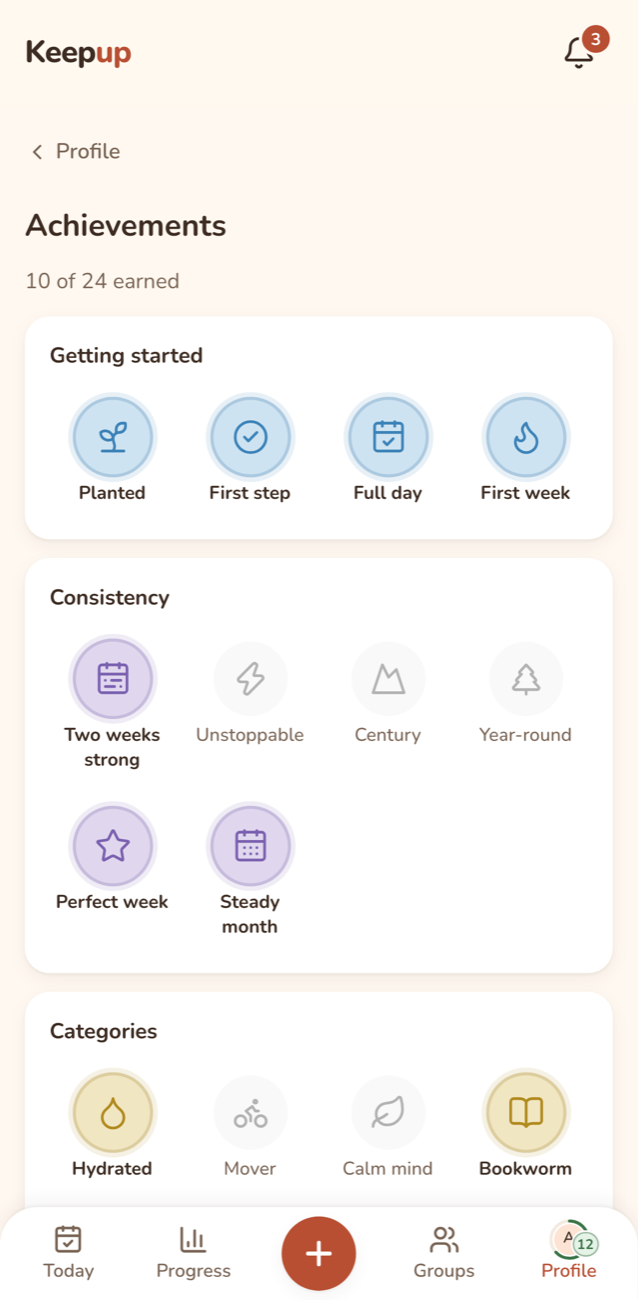
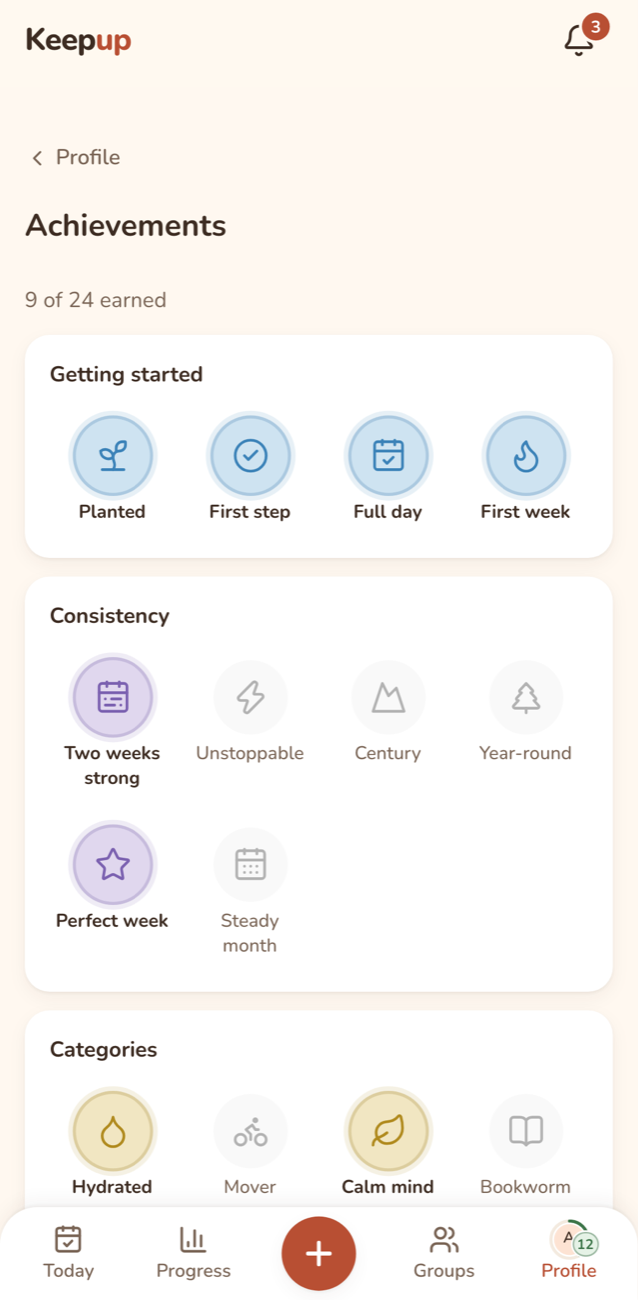
docs(readme): accurate for v1.8.0, new screenshots, easier to scan (#273)
The README now matches v1.8.0, with new screenshots.

**Screenshots** (12, regenerated with `npm run readme:screenshots`; each
one checked by eye):
- New: the landing page.
- Redone after the design pass:
  - Today, with the summary line and the check-in toast with Undo;
  - Progress, Calendar, Recaps (list rows);
  - Habit page (sections), New habit;
  - Kid view (header row), Achievements, Celebration;
  - Notifications (Saved ✓), Offline.
- Spec fixed for isolated names, the toast and Saved ✓.

**Text**
- **Order:** visitor first (intro, Try it, What it does, Your data,
Install), then engineering.
- **Lead-ins and alt texts:** short bold lead-ins, and alt texts that
describe the new UI.
- **Facts checked against the code:**
  - demo button and note;
  - what's off in the demo;
  - test counts from `scripts/count-tests.mjs` (badge 3904);
- PR checks take about 2.5 min, pgTAP runs on merge, full e2e runs after
merge;
  - roadmap up to v1.8.0;
  - 'Next' lists what's merged but not released (sitemap, 404, icons).
- **New mentions:** terms, push delivery log, three languages, kid
boy/girl, settings that save on change.
- **Shorter:** the engineering highlights.

All 50 README links and image paths exist. Lint and types pass.

🤖 Generated with [Claude Code](https://claude.com/claude-code)

---------

diff --git a/scripts/readme/screenshots.spec.ts b/scripts/readme/screenshots.spec.ts
@@ -7,6 +7,8 @@ import { createHabit } from "../../e2e/helpers/habits";
 // README screenshots (docs/screenshots). Local stack only: seeds a month of history straight into the
 // database (triggers off), like e2e/helpers do. Run: npm run readme:screenshots
 const OUT = "docs/screenshots";
+// Names in accessible labels come wrapped in Unicode isolates (FSI … PDI), as in e2e/kids.spec.ts.
+const iso = (s: string) => `\u2068${s}\u2069`;
 
 function seedHistory(email: string): void {
   if (!/^[\w.+-]+@[\w.-]+$/.test(email)) throw new Error(`Not an email: ${email}`);
@@ -47,6 +49,12 @@ select private.backfill_badges();`;
 test("README screenshots", async ({ page, context }) => {
   test.setTimeout(120_000);
   const email = uniqueEmail("readme");
+
+  // The landing page, signed out: the pitch and one call to action.
+  await page.goto("/");
+  await expect(page.getByRole("link", { name: "Start your first streak" })).toBeVisible();
+  await page.screenshot({ path: `${OUT}/landing.png` });
+
   await signUp(page, email);
   await completeOnboarding(page, { name: "Ana" });
   for (const template of ["Drink water", "Walk 10,000 steps", "Meditate", "Read 20 min", "Work out"]) {
@@ -73,15 +81,17 @@ test("README screenshots", async ({ page, context }) => {
     await expect(dialog).toBeHidden();
   }
 
-  // Today, half done.
+  // Today, half done, right after a check-in: the summary line and the toast with Undo.
   await page.goto("/today");
-  for (let i = 0; i < 3; i++) await page.getByRole("button", { name: "Check in: Drink water" }).click();
-  await page.getByRole("button", { name: "Check in: Walk 10,000 steps" }).click();
-  await expect(page.getByRole("button", { name: "Done: Walk 10,000 steps" })).toBeVisible();
-  await page.getByRole("button", { name: "Check in: Meditate" }).click();
-  await expect(page.getByRole("button", { name: "Done: Meditate" })).toBeVisible();
-  await page.getByRole("button", { name: /^Check in for Mary: / }).first().click();
+  await page.getByRole("button", { name: /^Check in for \u2068Mary\u2069: / }).first().click();
+  for (let i = 0; i < 3; i++) await page.getByRole("button", { name: `Check in: ${iso("Drink water")}` }).click();
+  await page.getByRole("button", { name: `Check in: ${iso("Walk 10,000 steps")}` }).click();
+  await expect(page.getByRole("button", { name: `Done: ${iso("Walk 10,000 steps")}` })).toBeVisible();
   await page.goto("/today");
+  await page.getByRole("button", { name: `Check in: ${iso("Meditate")}` }).click();
+  await expect(page.getByRole("button", { name: `Done: ${iso("Meditate")}` })).toBeVisible();
+  await expect(page.locator("[data-toaster]").getByRole("button", { name: "Undo", exact: true })).toBeVisible();
+  await page.waitForTimeout(300); // the toast's slide-in
   await page.screenshot({ path: `${OUT}/today.png` });
 
   await page.goto("/progress");
@@ -104,8 +114,8 @@ test("README screenshots", async ({ page, context }) => {
   await page.screenshot({ path: `${OUT}/new-habit.png` });
 
   await page.goto(kidPage);
-  await page.getByRole("link", { name: "Open Mary's view" }).click();
-  await expect(page.getByRole("button", { name: "Hold to exit Mary's view" })).toBeVisible();
+  await page.getByRole("main").getByRole("link", { name: `Open ${iso("Mary")}'s view` }).click();
+  await expect(page.getByRole("button", { name: `Hold to exit ${iso("Mary")}'s view` })).toBeVisible();
   // Finish two habits, so the open ones stay on top and the done ones sink to the bottom.
   for (const title of ["Read a book together", "Tidy my toys"]) {
     await page.locator("button:not([disabled])").filter({ hasText: title }).first().click();
@@ -164,7 +174,7 @@ test("README screenshots", async ({ page, context }) => {
   await expect(section.getByText(/^Reminders are on for this device/)).toBeVisible();
   await section.getByRole("group", { name: "Nudges" }).getByRole("radio", { name: "Inbox only" }).check();
   await section.getByRole("group", { name: "Group activity" }).getByRole("radio", { name: "Sound" }).check();
-  await page.waitForLoadState("networkidle");
+  await expect(section.getByRole("status").filter({ hasText: "Saved ✓" }).first()).toBeVisible();
   await section.getByText("What to send").scrollIntoViewIfNeeded();
   await page.waitForTimeout(500);
   await page.screenshot({ path: `${OUT}/notifications.png` });
@@ -173,13 +183,13 @@ test("README screenshots", async ({ page, context }) => {
   await page.goto("/today");
   await expect.poll(() => page.evaluate(async () => (await navigator.serviceWorker.ready, navigator.serviceWorker.controller !== null))).toBe(true);
   await page.reload();
-  await expect(page.getByRole("button", { name: "Check in: Read 20 min" })).toBeVisible();
+  await expect(page.getByRole("button", { name: `Check in: ${iso("Read 20 min")}` })).toBeVisible();
   await expect.poll(() => page.evaluate(async () => {
     const hit = await caches.match("/today");
-    return Boolean(hit) && (await hit!.text()).includes("Check in: Read 20 min");
+    return Boolean(hit) && (await hit!.text()).includes("Read 20 min");
   })).toBe(true);
   await context.setOffline(true);
-  await page.getByRole("button", { name: "Check in: Read 20 min" }).click();
+  await page.getByRole("button", { name: `Check in: ${iso("Read 20 min")}` }).click();
   await expect(page.getByText("Saving… ☁")).toBeVisible();
   await expect(page.getByText("Offline · showing your last update")).toBeVisible();
   await page.waitForTimeout(800);

diff --git a/README.md b/README.md
@@ -4,15 +4,86 @@
 
 **Habits, together.** A warm, mobile-first habit tracker for one person, a family, and kids without a login.
 
-**[Open Keepup](https://keepuphabits.vercel.app)**
+**[Open Keepup](https://keepuphabits.vercel.app)** · [Try the demo](#try-it) · [Install](#how-to-install) · [How it's built](#how-its-built)
 
-[![CI](https://github.com/naum-4ik/keepup/actions/workflows/ci.yml/badge.svg?branch=main)](https://github.com/naum-4ik/keepup/actions/workflows/ci.yml) ![Tests: 3564](https://img.shields.io/badge/tests-3564-brightgreen) [![License: MIT](https://img.shields.io/badge/license-MIT-blue)](LICENSE)
+[![CI](https://github.com/naum-4ik/keepup/actions/workflows/ci.yml/badge.svg?branch=main)](https://github.com/naum-4ik/keepup/actions/workflows/ci.yml) ![Tests: 3904](https://img.shields.io/badge/tests-3904-brightgreen) [![License: MIT](https://img.shields.io/badge/license-MIT-blue)](LICENSE)
+
+Check in with one tap, keep fair streaks, share habits with your family, and let kids tap in from their own view while a garden grows. It installs from the browser, sends reminders, works offline, and speaks English, Russian and Hebrew.
 
 <p align="center">
-  <img src="docs/screenshots/today.png" width="220" alt="Today: a progress card, then habits left to do, then Done for today">
-  <img src="docs/screenshots/progress.png" width="220" alt="Progress: your week, streaks, and habits by category">
-  <img src="docs/screenshots/kid-view.png" width="220" alt="The kid view: a garden scene above big habit buttons, open habits first and a done one at the bottom">
+  <img src="docs/screenshots/today.png" width="220" alt="Today: 2 of 5 done with a progress ring, this week's goals and streak, habits left to do, then Done for today; a toast at the bottom says Meditate checked in, with Undo">
+  <img src="docs/screenshots/progress.png" width="220" alt="Progress: your week with 6 of 8 goals met and a tappable row of days, the longest streak and check-ins, then active habits by category with their last 7 days">
+  <img src="docs/screenshots/kid-view.png" width="220" alt="The kid view: Mary's name and a Hold to exit button above a garden scene, then big habit buttons, open habits first and a done one at the bottom">
 </p>
+
+## Try it
+
+On the first screen, **Try a demo with sample habits** opens a lived-in account with no sign-up: Sam's month of habits, a family with Alex and a kid, Nova, and an Inbox with a cheer and a nudge. It resets after 24 hours. Invites, reminders and Delete account are off in the demo.
+
+<p align="center">
+  <img src="docs/screenshots/landing.png" width="220" alt="The start page: the Keepup sprout, Habits, together, one Start your first streak button, then Try a demo with sample habits (Resets after 24 hours, no sign-up) and Sign in">
+</p>
+
+## What it does
+
+### Every day
+
+- **Today:** one summary line (a ring, "2 of 5 done", and what's left to finish today), then your habits with one-tap check-in, progress (`3 / 8 today`, `0 of 3 this week`) and a streak. What's left comes first, then **Done for today**, then **Later**. Group and kid habits follow in their own sections. Each check-in shows a short toast with **Undo**.
+- **Ready-made habits:** 48 templates in 8 categories (Health, Fitness, Mind, Learning, People, Home, Work & money, Break a habit), or your own with any emoji. Schedules are *X times a day, week or month*, from a start date you choose.
+- **Habit page:** in sections: today's check-ins with Undo, current and best streak, history, then Manage habit (reminders, an optional end such as "Day 12 of 30", pause, edit, archive or delete).
+- **Fair streaks:** periods follow your time zone and week start (Sunday or Monday), a pause never breaks a streak, and a habit started mid-week doesn't count as missed.
+- **Three languages:** English, Russian and Hebrew (right to left), per person. Suggested habits show in each person's language.
+
+<p align="center">
+  <img src="docs/screenshots/new-habit.png" width="220" alt="New habit: category chips, popular templates with their schedules, and Create your own">
+  <img src="docs/screenshots/habit.png" width="220" alt="A habit's page: Done for today with the check-in time and Undo, current and best streak, a history grid, then Manage habit">
+</p>
+
+### Progress
+
+- **Progress:** your week (tap a day to see what you did), a month-by-month calendar back to your first habit, and active, finished and archived habits by category, each with its last 7 days. Finished habits can start again.
+- **Recaps:** a weekly and a monthly recap of your wins in the Inbox, with their history under Progress → Recaps.
+
+<p align="center">
+  <img src="docs/screenshots/calendar.png" width="220" alt="Progress, Calendar: a month of filled days, and under it what you did on the selected day">
+  <img src="docs/screenshots/recaps.png" width="220" alt="Progress, Recaps: a list of weeks, each with check-ins done and the longest streak, then months">
+</p>
+
+### XP, levels, badges and rest days
+
+- **XP and levels:** a check-in earns +10, and the first one of a period grows with your streak, up to +30. Finished periods and streak milestones add more. Levels go from Seedling to Forest, with a ring around your Profile avatar.
+- **Badges and milestones:** 24 badges under Profile → Achievements. Streak milestones (1, 2, 5, 7 days… 365) arrive in the Inbox, once per streak. Level-ups and badges get a short full-screen moment, or a quiet toast (Settings → Celebrations).
+- **Rest days:** a week of a daily habit earns one (up to 2). A missed day uses it and the streak stays safe.
+
+<p align="center">
+  <img src="docs/screenshots/achievements.png" width="220" alt="Profile, Achievements: 9 of 24 earned, earned badges in colour, locked ones faint">
+  <img src="docs/screenshots/celebration.png" width="220" alt="A level-up moment: a sprout, Level 12, Sapling, soft confetti over Today">
+</p>
+
+### Groups and kids
+
+- **Groups** (family, friends, couple, roommates) with invite links and emoji avatars.
+- **Habits done together:** a period is done when everyone required has checked in, with optional approval by another adult, cheers and nudges.
+- **Kids without a login:** an adult checks in for them, or they tap in their own kid view. Each approved check-in is a star, and the week's stars grow a garden (or an aquarium, space, a dino egg or a town) toward a treat goal chosen with the child. Boy or girl is optional, so Russian and Hebrew can say "well done" the right way.
+- **Inbox:** activity, nudges and cheers, updating live.
+
+### On your phone
+
+- **Installable app:** opens full screen from the Home Screen, with its own icon. No app store.
+- **Reminders and pushes:** a daily summary at your hour or a habit's own time; group check-ins, approvals, nudges and kids' moments; Sound, Silent or Inbox only per kind; pause all, or mute a habit.
+- **Offline:** check in without signal. The tap waits on the phone and counts for the day you tapped once you're back online. The last Today and kid view open offline.
+
+<p align="center">
+  <img src="docs/screenshots/notifications.png" width="220" alt="Settings, Notifications: Sound, Silent or Inbox only for each kind, and Saved ✓ under each change">
+  <img src="docs/screenshots/offline.png" width="220" alt="Today offline: a banner says you're seeing the last update, and a tapped habit shows Saving… with Undo until the phone is back online">
+</p>
+
+### Your data
+
+- **Settings save as you change them** and say "Saved ✓".
+- **Export my data** (a JSON file), **Reset my data** (type "reset") and **Delete account** (type "delete"; it says first which groups get a new admin and which are deleted).
+- **Forgot password?** on the sign-in screen emails a reset link.
+- **Private by design:** no ads and no advertising services. A child is a nickname, an emoji and a colour, with no photos or birthdates. Read the [privacy policy](https://keepuphabits.vercel.app/privacy) and the [terms of use](https://keepuphabits.vercel.app/terms).
 
 ## How to install
 
@@ -47,95 +118,35 @@ Click the install icon at the right of the address bar, then **Install**.
   <img src="docs/install/computer-install.svg" width="160" alt="The install icon at the right of the address bar, and Install Keepup with an Install button">
 </p>
 
-Then turn reminders on: Profile → Settings → **Turn on reminders**. Reminders belong to one install, so after reinstalling, turn them on again in Settings. Installed Keepup from the old address (keepup-murex.vercel.app)? Opening it brings you here with a short note; install again from the new address, then delete the old icon. The steps are also in the app: Profile, at the bottom.
+Then turn reminders on: Profile → Settings → **Turn on reminders**. Reminders belong to one install, so after reinstalling, turn them on again in Settings. The steps are also in the app: Profile, at the bottom.
 
-## What it does
-
-"Try a demo with sample habits" on the first screen, no sign-up: it opens a lived-in account (Sam's month, a family with Alex and a kid, Nova), deleted after 24 hours. Invites and push are off in the demo.
-
-### Every day
-
-- **Today:** a progress card (a ring of today's habits, what's left, and a small celebration when all are done), then a card per habit with one-tap check-in, progress (`3 / 8 today`, `1 of 3 this week`) and a streak badge. What's left comes first, then **Done for today**, then **Later** (habits that start later, or paused ones). Group and kid habits follow in their own sections.
-- **Ready-made habits:** 48 templates, 6 in each of 8 categories (Health, Fitness, Mind, Learning, People, Home, Work & money, Break a habit), or your own with any emoji. Schedules are *X times a day, week or month*, from a start date you choose.
-- **Habit page:** this period's check-ins with undo, current and best streak, history, pause and resume, an optional end ("Day 12 of 30", then keep going or finish), edit, archive or delete.
-- **Fair streaks:** periods follow your time zone and week start (Sunday or Monday), a pause never breaks a streak, and a habit started mid-week doesn't count as missed.
-- **Three languages:** English, Russian and Hebrew (right to left), chosen per person; habits from suggestions show in each person's language.
-
-<p align="center">
-  <img src="docs/screenshots/new-habit.png" width="220" alt="New habit: category chips above popular templates, and Create your own">
-  <img src="docs/screenshots/habit.png" width="220" alt="A habit's page: today's check-in with undo, streaks, history">
-</p>
-
-### Progress
-
-- **Progress:** a "Your week" card (tap a day to see what you did), a month-by-month calendar back to your first habit, and active, finished and archived habits by category, each with its last 7 days. Finished habits can start again.
-- **Recaps:** a weekly and a monthly recap of your wins in the Inbox, with their history under Progress → Recaps.
-
-<p align="center">
-  <img src="docs/screenshots/calendar.png" width="220" alt="Progress, Calendar: a month of filled days, and what you did on the selected day">
-  <img src="docs/screenshots/recaps.png" width="220" alt="Progress, Recaps: one card per week with check-ins done and the longest streak">
-</p>
-
-### XP, levels, badges and rest days
-
-- **XP and levels:** a check-in earns +10, and the first one of a period grows with your streak, up to +30. Finished periods and streak milestones add more. Levels go from Seedling to Forest, with a ring around your Profile avatar.
-- **Badges and milestones:** 24 badges under Profile → Achievements. Streak milestones (1, 2, 5, 7 days… 365) arrive in the Inbox, once per streak. Level-ups and badges get a short full-screen moment, or a quiet toast (Settings → Celebrations).
-- **Rest days:** a week of a daily habit earns one (up to 2); a missed day uses it and the streak stays safe.
-
-<p align="center">
-  <img src="docs/screenshots/achievements.png" width="220" alt="Profile, Achievements: earned badges in colour with icons, locked ones faint">
-  <img src="docs/screenshots/celebration.png" width="220" alt="A level-up moment: a sprout, Level 12, Sapling, soft confetti over Today">
-</p>
-
-### Groups and kids
-
-- **Groups** (family, friends, couple, roommates) with invite links and emoji avatars.
-- **Habits done together:** a period is done when everyone required has checked in, with optional approval by another adult, cheers and nudges.
-- **Kids without a login:** an adult checks in for them, or they tap in a kid view. Each approved check-in is a star, and the week's stars grow a garden (or an aquarium, space, a dino egg or a town) toward a treat goal chosen with the child.
-- **Inbox:** activity, nudges and cheers, updating live.
-
-### On your phone
-
-- **Installable app:** opens full screen from the Home Screen, no app store.
-- **Reminders and pushes:** a daily summary at your hour or a habit's own time; group check-ins, approvals, nudges and kids' moments; per kind Sound, Silent or Inbox only; pause all, or mute a habit.
-- **Offline:** check in without signal. The tap is saved on the phone and counts for the day you tapped once you're back online. The last Today and kid view open offline.
-
-<p align="center">
-  <img src="docs/screenshots/notifications.png" width="220" alt="Settings, Notifications: Sound, Silent or Inbox only for each kind, and this phone listed as a device">
-  <img src="docs/screenshots/offline.png" width="220" alt="Today offline: a banner says you're seeing the last update, and a tapped habit shows Saving until the phone is back online">
-</p>
-
-### Your data
-
-- **Settings:** Export my data (a JSON file), Reset my data (type "reset"), and Delete account (type "delete"; it says first which groups get a new admin and which are deleted).
-- **Forgot password?** on the sign-in screen emails a reset link.
-- **Private by design:** no ads and no advertising services; a child is a nickname, an emoji and a colour, with no photos or birthdates. Details: [privacy policy](https://keepuphabits.vercel.app/privacy).
+Installed Keepup from the old address (keepup-murex.vercel.app)? Opening it brings you here with a short note. Install again from the new address, then delete the old icon.
 
 ## How it's built
 
-Next.js 16 (App Router, Server Actions) on Vercel talks to Supabase: Postgres with row-level security, Auth (Google and email + password), Realtime for the live Inbox, `pg_cron` for periods, reminders, recaps and demo cleanup, and an Edge Function that sends Web Push. The phone runs a service worker and an offline queue. GitHub Actions runs CI, deploys and keeps encrypted backups; traces go to Grafana Cloud.
+Next.js 16 (App Router, Server Actions, next-intl) on Vercel talks to Supabase: Postgres with row-level security, Auth (Google and email + password), Realtime for the live Inbox, `pg_cron` for periods, reminders, recaps and demo cleanup, and an Edge Function that sends Web Push. The phone runs a service worker and an offline queue. GitHub Actions runs CI, deploys and keeps encrypted backups; traces go to Grafana Cloud.
 
-Diagrams, security layers, free-tier limits and the scaling path: [docs/architecture.md](docs/architecture.md). Colours, type, motion and voice: [docs/design.md](docs/design.md). The reasons behind the big choices: [docs/decisions](docs/decisions/README.md) (27 records).
+More: [architecture](docs/architecture.md) (diagrams, security layers, free-tier limits, the scaling path) · [design](docs/design.md) (colours, type, spacing, motion, voice) · [decisions](docs/decisions/README.md) (27 records of the big choices and why).
 
 ## Engineering highlights
 
-**The database is the security boundary.** Row-level security on every table (a pgTAP test fails if a table lacks it), column-level grants, and `SECURITY DEFINER` RPCs for the rules. A child is a `profiles` row with no `auth.users` entry, so adults act for them through one function, `can_act_for_profile`, that RLS and the RPCs share. Nobody can read another person's `profiles` row; names and avatars reach the screens only through functions that check group membership first. The one function callable without signing in is the invite preview, and a test fails if there is a second.
+**The database is the security boundary.** Row-level security on every table (a pgTAP test fails if a table lacks it), column-level grants, and `SECURITY DEFINER` RPCs for the rules. A child is a `profiles` row with no `auth.users` entry, and adults act for them through one function, `can_act_for_profile`, that RLS and the RPCs share. Names and avatars reach the screens only through functions that check group membership first. The one function callable without signing in is the invite preview, and a test fails if there is a second.
 
-**Who is required this period?** Periods and streaks are decided in SQL, across time zones, daylight-saving changes and each person's week start. A group habit is done when everyone required has checked in: an adult counts if they were a member from the start of the period, a member pause excuses them, and with approval on, a pending check-in can be reviewed until period end plus 12 hours, so the period stays open and a streak never flickers. All of it lives in one function, `period_outcome`, covered by pgTAP.
+**Who is required this period?** Periods and streaks are decided in SQL, across time zones, daylight-saving changes and each person's week start. In a group habit, an adult counts if they were a member from the start of the period, and a member pause excuses them. With approval on, a pending check-in can be reviewed until period end plus 12 hours, so a streak never flickers. All of it lives in one function, `period_outcome`, covered by pgTAP.
 
-**Offline taps count the tap day.** Every tap gets a client-made id, so a resend after a lost response can't count twice. A queued tap carries the phone's time, and the server uses `least(tap, arrival)` for the day, accepted up to 3 days late, so a fast clock can't push a tap into tomorrow. Even online taps go queue-first ([`lib/offline-queue.ts`](lib/offline-queue.ts), [`offline-sync.ts`](lib/offline-sync.ts)). The database stays the only judge of what counts.
+**Offline taps count the tap day.** Every tap gets a client-made id, so a resend after a lost response can't count twice. The server dates a queued tap by `least(tap, arrival)`, accepted up to 3 days late, so a fast clock can't push a tap into tomorrow. Even online taps go queue-first ([`lib/offline-queue.ts`](lib/offline-queue.ts), [`lib/offline-sync.ts`](lib/offline-sync.ts)).
 
-**Push decided in the database.** Pushes start from many places: a check-in, an approval, a pause, a cron job. A trigger on the feed table sets each row's category and `push` from the person's preferences (Pause all and mutes always win), then `pg_net` calls an Edge Function that sends one push per device. Each push carries a tag, so a newer one replaces the older, and on the last check-in of a group habit the superseded push is skipped: the family's phones buzz once, not four times.
+**Push decided in the database.** A trigger on the feed table sets each row's category and `push` from the person's preferences (Pause all and mutes always win), then `pg_net` calls an Edge Function that sends one push per device. Tags let a newer push replace the older one, so on the last check-in of a group habit the family's phones buzz once, not four times. Every attempt, and every push that couldn't go out, is logged in `push_deliveries` ([push delivery log](docs/observability/README.md#push-delivery-log)).
 
-**An XP ledger a late check-in can't fool.** XP is an append-only table with one unique key per grant, so every grant is idempotent and an undo is a negative row. Period XP, streak milestones and badges hang off a trigger that fires when a period is settled, and again when an offline check-in upgrades it from missed to done up to three days later. Milestones are keyed by the streak's first day, so they are never paid twice, and rest days come from the same results, so the upgrade hands back a used rest day by itself.
+**An XP ledger a late check-in can't fool.** XP is an append-only table with one unique key per grant, so grants are idempotent and an undo is a negative row. Period XP, milestones and badges hang off a trigger that fires when a period is settled, and again when an offline check-in upgrades it from missed to done. Milestones are keyed by the streak's first day, so they are never paid twice.
 
-**Delete account in one transaction.** `delete_my_account()` hands over admin to the longest-standing member, deletes groups left empty (with their children), then deletes the caller from `auth.users` and lets cascades take the rest, with no service-role key in the app. Locks are taken in the same order the feed and XP writes use, so they can't deadlock, and a read-only preview runs the same plan, so the dialog says exactly what will happen ([decision 0025](docs/decisions/0025-delete-account-is-one-database-transaction.md)).
+**Delete account in one transaction.** `delete_my_account()` hands admin to the longest-standing member, deletes groups left empty (with their children), then deletes the caller from `auth.users` and lets cascades take the rest, with no service-role key in the app. A read-only preview runs the same plan, so the dialog says exactly what will happen ([decision 0025](docs/decisions/0025-delete-account-is-one-database-transaction.md)).
 
-**Password reset on any device.** Reset links carry a `token_hash` checked on the server, so they work on any device, not only in the browser that asked.
+**A demo that is a database seed.** The demo signs in anonymously and seeds a lived-in month in one transaction, dated to the visitor's day and language. Database guards keep demo and real accounts apart, and an hourly job deletes demos after 24 hours ([decision 0026](docs/decisions/0026-the-demo-is-a-database-seed.md)).
 
-**A demo that is a database seed.** "Try a demo with sample habits" signs in anonymously and seeds 30 days of a lived-in account in one transaction; demo and real accounts can't mix (database guards), and an hourly job deletes demos after 24 hours ([decision 0026](docs/decisions/0026-the-demo-is-a-database-seed.md)).
+**Three languages, one catalog.** Screens, pushes and template habits come from one message catalog per language ([`supabase/functions/_shared/messages`](supabase/functions/_shared/messages)), shared by the app and the push function. Hebrew is laid out right to left, and kid lines follow the child's boy or girl setting.
 
-**Tests at every layer:** 1410 pgTAP tests in 54 files, 1935 Vitest and 219 Playwright tests (phone viewport), plus the Edge Function tests under Deno in CI. Counts from [`scripts/count-tests.mjs`](scripts/count-tests.mjs).
+**Tests at every layer:** 1541 pgTAP tests in 58 files, 2108 Vitest and 255 Playwright tests (phone viewport), plus the Edge Function tests under Deno in CI. Counts from [`scripts/count-tests.mjs`](scripts/count-tests.mjs).
 
 ## Environments
 
@@ -145,15 +156,17 @@ Diagrams, security layers, free-tier limits and the scaling path: [docs/architec
 | Staging | [keepup-stage.vercel.app](https://keepup-stage.vercel.app) | Vercel project `keepup-stage`, Supabase staging. Every merge to `develop`; migrations go out after CI's database tests pass |
 | PR previews | a Vercel preview link per PR | The app only, on staging data |
 
-- **Flow:** `feature/*` → PR (squash) → `develop` (staging) → release PR → `main` (production), merged with a merge commit only (a `main` ruleset), so both branches share one history. `main` is the default branch; release-please writes the versions and the changelog. README-only fixes may go straight to `main`.
-- **CI:** every PR that changes code runs lint, types, unit and Edge Function tests in about a minute; each merge to `develop` runs pgTAP (it gates the staging database deploy) and the full Playwright suite after it ([decision 0024](docs/decisions/0024-pr-checks-in-a-minute.md)).
+- **Flow:** `feature/*` → PR (squash) → `develop` (staging) → release PR → `main` (production), merged with a merge commit only (a `main` ruleset), so both branches share one history. release-please writes the versions and the changelog.
+- **CI:** PR checks take about 2.5 minutes: lint, types, unit and Edge Function tests (required), plus one sanity e2e test through a real database. A merge to `develop` or `main` also runs pgTAP, which gates the staging database deploy, and after each merge to `develop` the full Playwright suite runs on its own ([decision 0024](docs/decisions/0024-pr-checks-in-a-minute.md)).
 - **Backups:** staging and production are dumped nightly (schema, data and logins), encrypted with `age`, and a monthly job restores the latest into a throwaway database and checks it.
 
 ## Observability
 
 ![Grafana: the Keepup Infra dashboard, staging and production side by side](docs/observability/screenshots/infra.png)
 
-The server sends OpenTelemetry traces and events (one wide event per action, linked to its trace) straight to Grafana Cloud's free tier, with no collector; the browser sends its errors and speed measurements through Grafana Faro (on in staging and production; off wherever `NEXT_PUBLIC_FARO_URL` is unset). Passwords, tokens and keys are masked before export, and a unit test fails if one gets through. Alerts email on new arrivals, production errors and silent telemetry, and an uptime check with an SLO watches from outside. What is sent, the queries, the alerts, a real incident and a staged one ([postmortem 001](docs/observability/postmortems/001-production-telemetry-silent.md)): [docs/observability](docs/observability/README.md).
+The server sends OpenTelemetry traces and events (one wide event per action, linked to its trace) straight to Grafana Cloud's free tier, with no collector. The browser sends its errors and speed measurements through Grafana Faro (on in staging and production). Passwords, tokens and keys are masked before export, and a unit test fails if one gets through. Alerts email on new arrivals, production errors and silent telemetry, and an uptime check with an SLO watches from outside.
+
+What is sent, the queries, the alerts, the push delivery log, a real incident and a staged one ([postmortem 001](docs/observability/postmortems/001-production-telemetry-silent.md)): [docs/observability](docs/observability/README.md).
 
 ## Run locally
 
@@ -173,17 +186,22 @@ README screenshots: `npm run readme:screenshots` (local stack; seeds a demo mont
 
 ## Roadmap
 
-| Milestone | What | Status |
+| Release | What | Status |
 |---|---|---|
 | M1 | Foundation: auth (Google, email and password), profiles, CI, staging deploys, versioning | ✅ v0.2.0 |
 | M2 | Private habits: templates, check-ins, streaks, pauses, habit page, progress, weekly overview, onboarding | ✅ v0.3.0 |
 | M3 | Groups and family: shared habits, approvals, kid profiles with a star garden, emoji avatars, backups | ✅ v0.4.0 |
 | M4 | Installable app (PWA), push reminders, offline check-ins | ✅ v0.5.0 |
 | M5 | XP, levels, badges, rest days, weekly recaps | ✅ v0.6.0 |
-| M6 | Landing page, "Try a demo with sample habits", privacy policy, data export and account delete, production | ✅ v1.0.0 |
+| M6 | Landing page, the demo, privacy policy, data export and account delete, production | ✅ v1.0.0 |
 | v1.1 | Its own address (keepuphabits.vercel.app), a "Keepup moved" note on the old one, an in-app How to install guide | ✅ v1.1.0 |
+| v1.2–1.4 | Grafana dashboards and alerts, fixes from the production test, the demo on sign-in and sign-up, Keepup-branded auth emails | ✅ v1.4.0 |
+| v1.5 | English, Russian and Hebrew (right to left), template habits in each person's language, kid boy or girl | ✅ v1.5.0 |
+| v1.6 | The demo looks live on any day and in the visitor's language; a log of every push attempt | ✅ v1.6.0 |
+| v1.7 | Terms of use | ✅ v1.7.0 |
+| v1.8 | Design pass: fewer boxes, even spacing, a toast with Undo after every action, settings that save on change, a start page with one button | ✅ v1.8.0 |
 
-Next: ideas for after v1.
+Next (merged, not yet released): `sitemap.xml`, a real 404 page, and installed-app icons for the macOS app grid.
 
 ## How it was built
 
